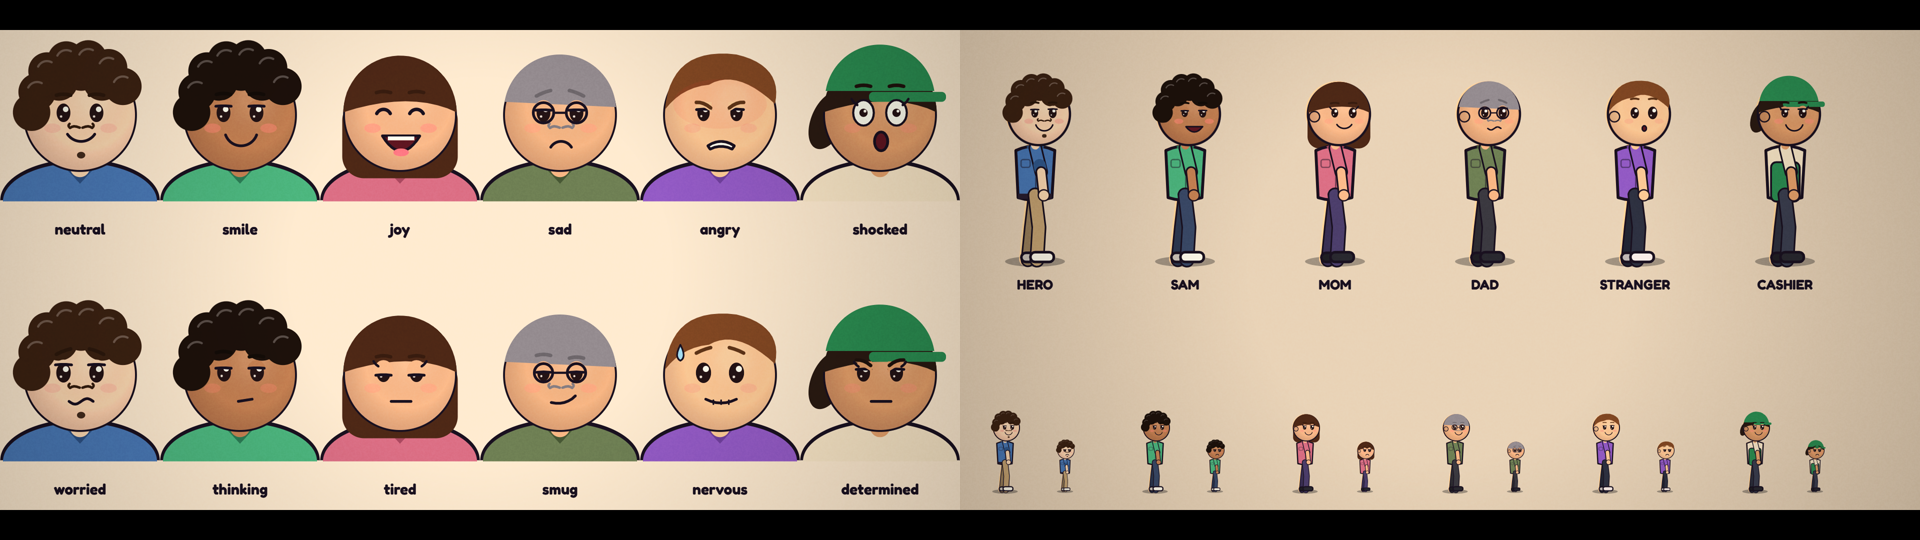
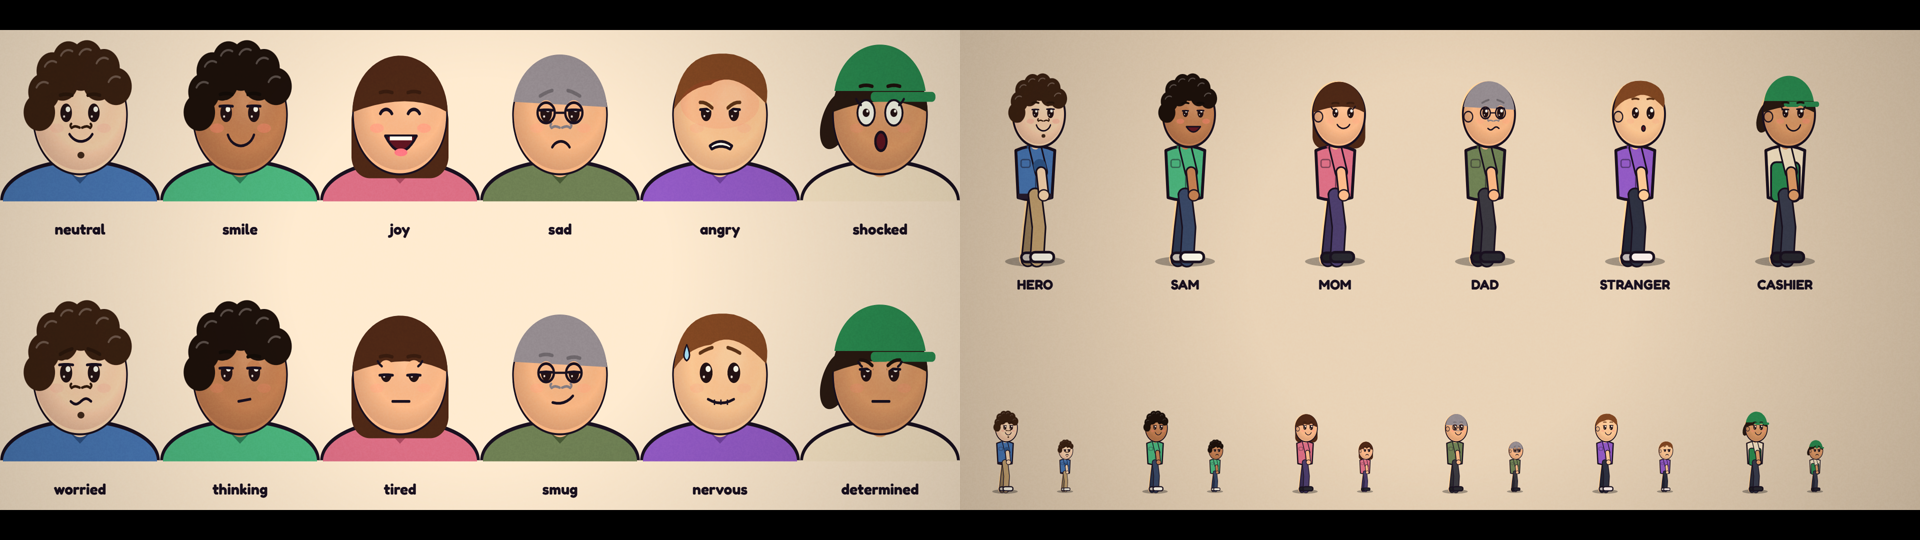
Slim egg-shaped heads (not fat face), lighter blush

diff --git a/growkaz/engine/toon2d.js b/growkaz/engine/toon2d.js
@@ -61,7 +61,7 @@ export function toonFace(g, hx, hy, r, o = {}) {
   // o.face === 'classic' (or cast.face) keeps the old white-eye face.
   if ((o.face || c.face) !== 'classic') {
     const T = g.getTransform(), px = r * Math.hypot(T.a, T.b), boost = px < 34 ? Math.min(1.35, Math.pow(34 / Math.max(px, 6), 0.4)) : 1;
-    g.fillStyle = alpha('#ff8a8a', 0.22 + 0.3 * (ex.blush || 0)); for (const dx of [-0.5, 0.52]) { g.beginPath(); g.ellipse(fx + dx * r, hy + r * 0.24, r * 0.15, r * 0.085, 0, 0, Math.PI * 2); g.fill(); }
+    g.fillStyle = alpha('#ff8a8a', 0.13 + 0.3 * (ex.blush || 0)); for (const dx of [-0.5, 0.52]) { g.beginPath(); g.ellipse(fx + dx * r, hy + r * 0.24, r * 0.15, r * 0.085, 0, 0, Math.PI * 2); g.fill(); }
     if (ex.red) { g.fillStyle = alpha('#ff3a3a', ex.red * 0.3); g.beginPath(); g.ellipse(hx, hy - r * 0.2, r * 0.85, r * 0.45, 0, 0, Math.PI * 2); g.fill(); }
     const ey = hy - r * 0.04, exs = [fx - r * 0.3, fx + r * 0.3], sc0 = boost * (ex.eye ? Math.max(0.85, Math.min(1.2, ex.eye)) : 1);
     const ew = r * 0.125 * sc0, eh = r * 0.168 * sc0, lw = Math.max(r * 0.05, 1.2 / Math.hypot(T.a, T.b));
@@ -185,6 +185,12 @@ function softShade(g, x, y, r) { g.save(); g.beginPath(); g.arc(x, y, r, 0, Math
   const gr = g.createRadialGradient(x + r * 0.25, y - r * 0.3, r * 0.2, x + r * 0.1, y - r * 0.1, r * 1.15); gr.addColorStop(0, 'rgba(255,255,255,0.10)'); gr.addColorStop(0.6, 'rgba(0,0,0,0)'); gr.addColorStop(1, 'rgba(60,20,30,0.16)');
   g.fillStyle = gr; g.fillRect(x - r, y - r, r * 2, r * 2); g.restore(); }
 
+// head width (user 2026-11-22: "not fat face"): heads are a slim oval, not a full circle. cast.headW overrides (1 = old round head).
+export const HEAD_W = 0.84;
+// egg head: round crown and cheekbones, the jaw tapers to a softer, narrower chin
+function headShape(g, x, y, r, fill) { g.fillStyle = fill; g.beginPath(); g.moveTo(x - r, y); g.arc(x, y, r, Math.PI, 0); g.bezierCurveTo(x + r, y + r * 0.62, x + r * 0.55, y + r * 1.06, x, y + r * 1.06); g.bezierCurveTo(x - r * 0.55, y + r * 1.06, x - r, y + r * 0.62, x - r, y); g.fill(); }
+function slim(g, head, c, fn) { const k = c.headW || HEAD_W; g.save(); g.translate(head[0], head[1]); g.scale(k, 1); g.translate(-head[0], -head[1]); fn(); g.restore(); }
+
 // ---------- full body ----------
 export function drawToon(g, o) {
   const c = o.cast || HERO, p = o.pose || POSES.stand, s = o.s ?? 1, f = o.facing ?? 1, ink = '#1b1424';
@@ -206,7 +212,7 @@ function body(g, o, c, p, sil, ink) {
   limb(g, [p.sh, p.eB], 15, far(top), ink, sil); limb(g, [p.eB, p.hB], 12, far(skin), ink, sil);
   if (!sil) circle(g, p.hB[0], p.hB[1], 8, far(skin));
   // back hair
-  if (!sil) hairBack(g, c, head[0], head[1], HR);
+  if (!sil) slim(g, head, c, () => hairBack(g, c, head[0], head[1], HR));
   // torso: rounded shirt
   const sh = p.sh, hip = p.hip, w1 = 30, w2 = 26;
   g.beginPath(); g.moveTo(sh[0] - w1, sh[1] + 4); g.quadraticCurveTo(sh[0], sh[1] - 10, sh[0] + w1, sh[1] + 4);
@@ -230,14 +236,14 @@ function body(g, o, c, p, sil, ink) {
   limb(g, [p.eF, p.hF], 12.5, skin, ink, sil);
   if (!sil) { circle(g, p.hF[0], p.hF[1], 9.5, ink); circle(g, p.hF[0], p.hF[1], 7.5, skin); }
   // head
-  if (sil) { circle(g, head[0], head[1], HR + 3, sil); return; }
+  if (sil) { slim(g, head, c, () => circle(g, head[0], head[1], HR + 3, sil)); return; }
   seg(g, [[sh[0], sh[1] - 4], [head[0], head[1] + HR * 0.7]], 13, skin);
-  circle(g, head[0], head[1], HR + 3.5, ink); circle(g, head[0], head[1], HR, c.skin);
+  slim(g, head, c, () => { headShape(g, head[0], head[1], HR + 3.5, ink); headShape(g, head[0], head[1], HR, c.skin);
   // ear + subtle face shading
   circle(g, head[0] - HR * 0.82, head[1] + 4, 9, ink); circle(g, head[0] - HR * 0.82, head[1] + 4, 7, shade(c.skin, -0.05));
   softShade(g, head[0], head[1], HR);
   hairFront(g, c, head[0], head[1], HR);
-  toonFace(g, head[0], head[1], HR, { cast: c, expr: o.expr, talk: o.talk, blink: o.blink, look: o.look, face: o.face });
+  toonFace(g, head[0], head[1], HR, { cast: c, expr: o.expr, talk: o.talk, blink: o.blink, look: o.look, face: o.face }); });
   if (o.prop === 'phone') { g.fillStyle = '#1b1d26'; rr(g, p.hF[0] - 9, p.hF[1] - 30, 22, 38, 5); g.fill(); g.fillStyle = '#8fd0ff'; g.fillRect(p.hF[0] - 6, p.hF[1] - 26, 16, 28); }
 }
 
@@ -251,10 +257,10 @@ export function bigToonFace(g, cx, cy, r, o = {}) {
   if (!c.apron) { g.fillStyle = c.collar || c.topDark; g.beginPath(); g.moveTo(-r * 0.36, r * 0.86); g.lineTo(0, r * 1.25); g.lineTo(r * 0.36, r * 0.86); g.lineTo(r * 0.12, r * 0.78); g.lineTo(-r * 0.12, r * 0.78); g.closePath(); g.fill(); }
   seg(g, [[0, r * 0.6], [0, r * 0.95]], r * 0.36, c.skin);
   if (o.rimColor) { g.strokeStyle = o.rimColor; g.lineWidth = r * 0.06; g.beginPath(); g.arc(0, 0, r * 1.04, Math.PI * 1.1, Math.PI * 1.75); g.stroke(); }
-  hairBack(g, c, 0, 0, r);
-  circle(g, 0, 0, r * 1.035, ink); circle(g, 0, 0, r, c.skin);
+  g.save(); g.scale(c.headW || HEAD_W, 1); hairBack(g, c, 0, 0, r);
+  headShape(g, 0, 0, r * 1.035, ink); headShape(g, 0, 0, r, c.skin);
   softShade(g, 0, 0, r);
   hairFront(g, c, 0, 0, r);
   toonFace(g, 0, 0, r, { cast: c, expr: o.expr, talk: o.talk, blink: o.blink, look: o.look, front: true, face: o.face });
-  g.restore();
+  g.restore(); g.restore();
 }

diff --git a/growkaz/README.md b/growkaz/README.md
@@ -87,6 +87,7 @@ Our patches live HERE and are copied over the studio: `engine/toon2d.js`, `engin
 ## CLEAN FACES (default since 2026-11-22, user: "make character minimal clear face") - `docs/FACES_CLEAN.png`
 - toonFace now draws dark glossy eyes (like `docs/ABID_CHARACTER.png`), soft short brows, light blush, thin curled moustache clear of the mouth, soft head shading (no hard half-face line).
 - Only shocked/surprised keep a white eye with a tiny pupil (so shock still reads). Features grow a little on small/far figures so faces stay readable.
+- Heads are a slim egg (user 2026-11-22 "not fat face"): `HEAD_W = 0.84` width + tapered chin (`headShape`). Per character: `cast.headW` (1 = old round head).
 - Old white-eye face if ever needed: `drawToon(g, {..., face: 'classic'})` / `bigToonFace(..., {face: 'classic'})` or `cast.face = 'classic'`.
 
 - Mixing rule (Clip 24): 3D for real places (establishing, push/crane/orbit around characters), 2D for inserts (objects, stamps), giant faces and memories/flashbacks (warm `park(..., {memory:1})`). Fade 0.3-0.35 between them.
